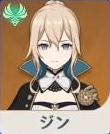
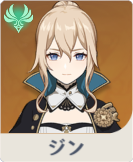
feat: change jean image. add discription. change gradation radio.

diff --git a/src/App.vue b/src/App.vue
@@ -27,4 +27,78 @@ html {
 body {
   font-family: "Noto Serif JP", serif;
 }
+
+// vuetifyのカラムにかかるpaddingを上書き
+.col-xl,
+.col-xl-auto,
+.col-xl-12,
+.col-xl-11,
+.col-xl-10,
+.col-xl-9,
+.col-xl-8,
+.col-xl-7,
+.col-xl-6,
+.col-xl-5,
+.col-xl-4,
+.col-xl-3,
+.col-xl-2,
+.col-xl-1,
+.col-lg,
+.col-lg-auto,
+.col-lg-12,
+.col-lg-11,
+.col-lg-10,
+.col-lg-9,
+.col-lg-8,
+.col-lg-7,
+.col-lg-6,
+.col-lg-5,
+.col-lg-4,
+.col-lg-3,
+.col-lg-2,
+.col-lg-1,
+.col-md,
+.col-md-auto,
+.col-md-12,
+.col-md-11,
+.col-md-10,
+.col-md-9,
+.col-md-8,
+.col-md-7,
+.col-md-6,
+.col-md-5,
+.col-md-4,
+.col-md-3,
+.col-md-2,
+.col-md-1,
+.col-sm,
+.col-sm-auto,
+.col-sm-12,
+.col-sm-11,
+.col-sm-10,
+.col-sm-9,
+.col-sm-8,
+.col-sm-7,
+.col-sm-6,
+.col-sm-5,
+.col-sm-4,
+.col-sm-3,
+.col-sm-2,
+.col-sm-1,
+.col,
+.col-auto,
+.col-12,
+.col-11,
+.col-10,
+.col-9,
+.col-8,
+.col-7,
+.col-6,
+.col-5,
+.col-4,
+.col-3,
+.col-2,
+.col-1 {
+  padding: 4px !important;
+}
 </style>

diff --git a/src/views/Home.vue b/src/views/Home.vue
@@ -61,6 +61,14 @@
       </v-col>
     </v-row>
     <v-row
+      class="text-right"
+      align="start"
+    >
+      <v-col>
+        <span>※ 鐘離先生と辛炎はキャラ図鑑が更新されていなかったため、更新され次第追加します。</span>
+      </v-col>
+    </v-row>
+    <v-row
       class="text-center"
       align="center"
     >

diff --git a/src/components/ThumnailCanvas.vue b/src/components/ThumnailCanvas.vue
@@ -83,7 +83,7 @@ export default class ThumnailCanvas extends Vue {
   private setGradient(): void {
     const gradient: fabric.Gradient = new fabric.Gradient({
       type: 'linear',
-      coords: { x1: 0, y1: 0, x2: 0, y2: 900 },
+      coords: { x1: 0, y1: 0, x2: 0, y2: 1200 },
       colorStops:
         [
           { color: this.pickColor1.hex, offset: '0' },
